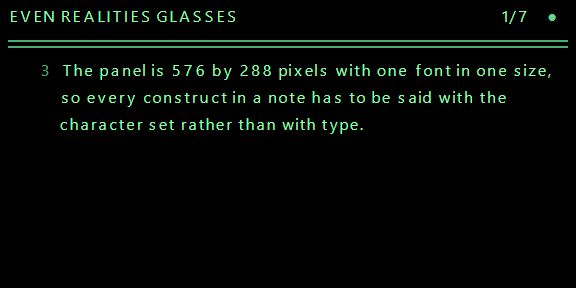
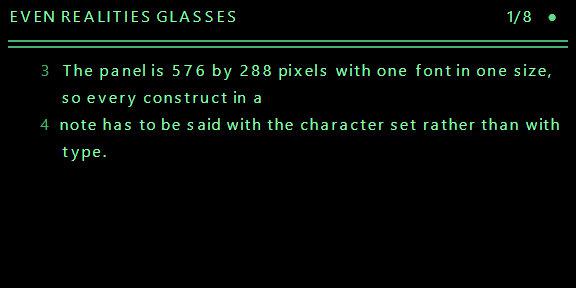
fix: a note starts at one break between blocks, not at as little as possible

diff --git a/packages/glasses/src/mark.test.ts b/packages/glasses/src/mark.test.ts
@@ -275,14 +275,23 @@ describe('nothing in a note is dropped', () => {
     expect(one('<div>block</div>')).toBe('block')
   })
 
-  test('a paragraph hard wrapped in the file is one line, not one per file line', () => {
-    // A single newline inside a paragraph is a space in markdown. Read as a break
-    // it was two lines on the panel for every wrapped paragraph in every note, both
-    // numbered with the line the paragraph started on, and the panel held half of
-    // what it should.
-    expect(lines('one two\nthree four\nfive six\n')).toEqual(['one two three four five six'])
-    expect(lines('- one two\n  three four\n')).toEqual(['• one two three four'])
-    expect(lines('> one two\n> three four\n')).toEqual(['│ one two three four'])
+  /** A single newline inside a paragraph is a space in markdown, and at the top
+   *  compaction that is what it becomes. Read as a break it was two lines on the
+   *  panel for every wrapped paragraph in every note, both numbered with the line the
+   *  paragraph started on, and the panel held half of what it should.
+   *
+   *  Asked of `aggressive` by name, because the default is `collapse` now: Emil, who
+   *  reads on a pair, would rather have the note's own breaks. See `Compaction`. */
+  test('a paragraph hard wrapped in the file is one line at the top compaction', () => {
+    const flowed = (source: string) =>
+      markLines(source, { inner: BODY_INNER, compaction: 'aggressive' }).map((one) => one.text)
+
+    expect(flowed('one two\nthree four\nfive six\n')).toEqual(['one two three four five six'])
+    expect(flowed('- one two\n  three four\n')).toEqual(['• one two three four'])
+    expect(flowed('> one two\n> three four\n')).toEqual(['│ one two three four'])
+
+    // And at the default the reader gets the lines they wrote.
+    expect(lines('one two\nthree four\n')).toEqual(['one two', 'three four'])
   })
 
   test('a hard break is two lines, the second under the words of the first', () => {

diff --git a/packages/glasses/src/mark.ts b/packages/glasses/src/mark.ts
@@ -107,6 +107,15 @@ export type Compaction = 'none' | 'collapse' | 'aggressive'
 
 export const COMPACTIONS: readonly Compaction[] = ['none', 'collapse', 'aggressive']
 
+/** What a reader who has never chosen gets: `collapse`, which is Emil's answer
+ *  having read on a pair.
+ *
+ *  It was `aggressive`, which is what the plugin did before there was a choice at
+ *  all. Said once, here, and read by the mapping, by the schema's own initial and by
+ *  the store's default, so the three cannot drift; a device that has already saved a
+ *  value keeps whatever it saved. */
+export const DEFAULT_COMPACTION: Compaction = 'collapse'
+
 export function isCompaction(value: unknown): value is Compaction {
   return typeof value === 'string' && (COMPACTIONS as readonly string[]).includes(value)
 }
@@ -117,8 +126,8 @@ export interface MarkOptions {
   inner: number
   /** Which markers to draw. The defaults above when nobody has said. */
   marks?: Marks
-  /** How much white space reaches the panel. `aggressive` when nobody has said,
-   *  which is what the plugin did before there was a choice. */
+  /** How much white space reaches the panel. `DEFAULT_COMPACTION` when nobody has
+   *  said, which is `collapse`. */
   compaction?: Compaction
   /** Whether the first level of a note is indented at all.
    *
@@ -530,7 +539,7 @@ class Sheet {
     options: MarkOptions,
   ) {
     this.marks = options.marks ?? MARKS
-    this.compaction = options.compaction ?? 'aggressive'
+    this.compaction = options.compaction ?? DEFAULT_COMPACTION
     this.flow = this.compaction === 'aggressive'
     this.rootIndent = options.rootIndent ?? false
   }

diff --git a/apps/desktop/src/lib/modes.svelte.ts b/apps/desktop/src/lib/modes.svelte.ts
@@ -28,7 +28,7 @@ import { SvelteMap } from 'svelte/reactivity'
 import { account } from './account.svelte'
 import { api, type AccountSettings } from './api'
 import { type AttachmentFolder, isAttachmentFolder } from './attachments'
-import { type Compaction, isCompaction, MARKS, type Marks } from '@nib/glasses'
+import { type Compaction, DEFAULT_COMPACTION, isCompaction, MARKS, type Marks } from '@nib/glasses'
 import { glassesKey } from './even/key.svelte'
 import { isScroll, type Scroll } from './even/scroll'
 import { type Effort, isEffort } from './even/models'
@@ -236,8 +236,9 @@ class Modes {
    *  it is turned on from the hold modal on the glasses, or here. */
   glassesVoice = $state(false)
   /** How much of a note's own white space reaches the panel; see `Compaction` in
-   *  @nib/glasses. `aggressive` is what the plugin did before there was a choice. */
-  glassesCompaction = $state<Compaction>('aggressive')
+   *  @nib/glasses. One break between blocks, which is Emil's answer having read on a
+   *  pair; the default is said once, in that package. */
+  glassesCompaction = $state<Compaction>(DEFAULT_COMPACTION)
   /** Which of a note's markers are drawn. Rule one as it stands, until a reader
    *  overrules it per construct; see `Marks` in @nib/glasses. */
   glassesMarks = $state<Marks>({ ...MARKS })

diff --git a/apps/desktop/src/lib/even/settings.test.ts b/apps/desktop/src/lib/even/settings.test.ts
@@ -1,3 +1,4 @@
+import { DEFAULT_COMPACTION } from '@nib/glasses'
 import { beforeEach, describe, expect, test, vi } from 'vitest'
 
 /** The one schema both surfaces are drawn from.
@@ -92,6 +93,18 @@ describe('every glasses setting', () => {
     for (const { id, field } of glassesSettings()) {
       expect(field.initial, id).not.toBeUndefined()
     }
+  })
+
+  /** Emil, after reading on a pair: the lines he wrote are the lines he meant. The
+   *  default is declared once, in @nib/glasses, and both the schema's initial and the
+   *  store's default read it - so a reader who has never chosen gets `collapse` and a
+   *  device that saved a value keeps it. */
+  test('starts a note at one break between blocks, not at as little as possible', () => {
+    const found = glassesSettings().find((one) => one.id === 'compaction')
+
+    expect(found?.field.initial).toBe(DEFAULT_COMPACTION)
+    expect(DEFAULT_COMPACTION).toBe('collapse')
+    expect(found?.field.get()).toBe('collapse')
   })
 
   test('is on the glasses, because all of them make sense there', () => {

diff --git a/packages/glasses/src/reading.test.ts b/packages/glasses/src/reading.test.ts
@@ -1,5 +1,12 @@
 import { describe, expect, test } from 'vitest'
-import { type Compaction, COMPACTIONS, markLines, MARKS, type Marks } from './mark'
+import {
+  type Compaction,
+  COMPACTIONS,
+  DEFAULT_COMPACTION,
+  markLines,
+  MARKS,
+  type Marks,
+} from './mark'
 import { BODY_INNER } from './panel'
 
 /* ── How much of a note's white space reaches the panel ───────────────── */
@@ -25,6 +32,13 @@ describe('compaction', () => {
       [1, 'A'],
       [5, 'B'],
     ])
+  })
+
+  /** What a reader who has never chosen gets. Said once, so the mapping, the
+   *  schema's initial and the store's default cannot drift apart. */
+  test('is what a note is set at with nobody having chosen', () => {
+    expect(DEFAULT_COMPACTION).toBe('collapse')
+    expect(markLines(A_B, { inner: BODY_INNER }).map((one) => one.text)).toEqual(['A', 'B'])
   })
 
   test('collapse keeps A, newline, B as two lines', () => {

diff --git a/apps/desktop/src/lib/even/settings.ts b/apps/desktop/src/lib/even/settings.ts
@@ -16,7 +16,7 @@
  *  other setting; the glasses draw a row with the value on the right, and a tap
  *  either flips it or opens the choices as a list like any other. */
 
-import { COMPACTIONS, type Marks } from '@nib/glasses'
+import { COMPACTIONS, DEFAULT_COMPACTION, type Marks } from '@nib/glasses'
 import { key, t } from '../i18n.svelte'
 import { modes } from '../modes.svelte'
 import type { Field, Group } from '../preferences'
@@ -144,7 +144,7 @@ export function glassesSettings(): Setting[] {
         t('Blank lines'),
         COMPACTIONS,
         COMPACTION_WORDS,
-        'aggressive',
+        DEFAULT_COMPACTION,
         () => modes.glassesCompaction,
         (value) => modes.setGlassesCompaction(value),
       ),

diff --git a/packages/glasses/src/index.ts b/packages/glasses/src/index.ts
@@ -12,6 +12,7 @@ export { fit, fold, rightward, rows, ruleOf, SPACE, spread, TICK, width, wrap } 
 export {
   type Compaction,
   COMPACTIONS,
+  DEFAULT_COMPACTION,
   isCompaction,
   type Line,
   markLines,

diff --git a/docs/even.md b/docs/even.md
@@ -391,7 +391,7 @@ columns, a picture as what it was described as, a fence line by line.
 | html | the words inside it | markup is not words |
 | front matter | not set | it is not set on a page either |
 | a link definition, an abbreviation | not set | neither is content |
-| a soft wrap inside a paragraph | a space | markdown says it is one |
+| a soft wrap inside a paragraph | a break, or a space at the top compaction | see the levels below |
 
 Line numbers are the note's own, counted from the first byte of the file with the
 front matter included, so "go to line forty" reaches the line an editor would call
@@ -411,22 +411,22 @@ each rather than one "show markdown" switch, because the answer is different for
 fence and for a bold word and that difference *is* the rule.
 
 **How much white space reaches the panel**, in three levels. Eight lines is not many
-and how they are spent is a real choice. Emil's three, in his words:
+and how they are spent is a real choice. Emil's three, in his words, against a note
+whose lines are `A`, one newline, `B` and against one with three blank lines between
+them:
 
-| Level | `A
-B` | `A
-
-
-
-B` |
+| Level | one newline | three blank lines |
 | --- | --- | --- |
 | `none` - every line break as written | two lines | two lines, three blank between |
 | `collapse` - one break between blocks | two lines | two lines, nothing between |
 | `aggressive` - as little as possible | **one line** | two lines, nothing between |
 
-`aggressive` is what the plugin did before there was a choice, and is still the
-default: markdown says a soft wrap inside a paragraph is a space, and reading it as a
-break made every hard-wrapped paragraph in every note come out as a ragged column.
+`collapse` is the default, and it is Emil's answer having read on a pair: the lines a
+reader wrote are the lines they meant. `aggressive` is what the plugin did before
+there was a choice - markdown says a soft wrap inside a paragraph is a space, and
+that is still true of it - and it is one setting away. The default is declared once,
+as `DEFAULT_COMPACTION` in `@nib/glasses`, and the mapping, the schema's initial and
+the store's default all read it; a device that has already saved a value keeps it.
 
 **A line number is the line of the file at every level.** That is the whole point of
 the numbers: a row that says 12 is line 12 of the note, whether ten of its lines were
